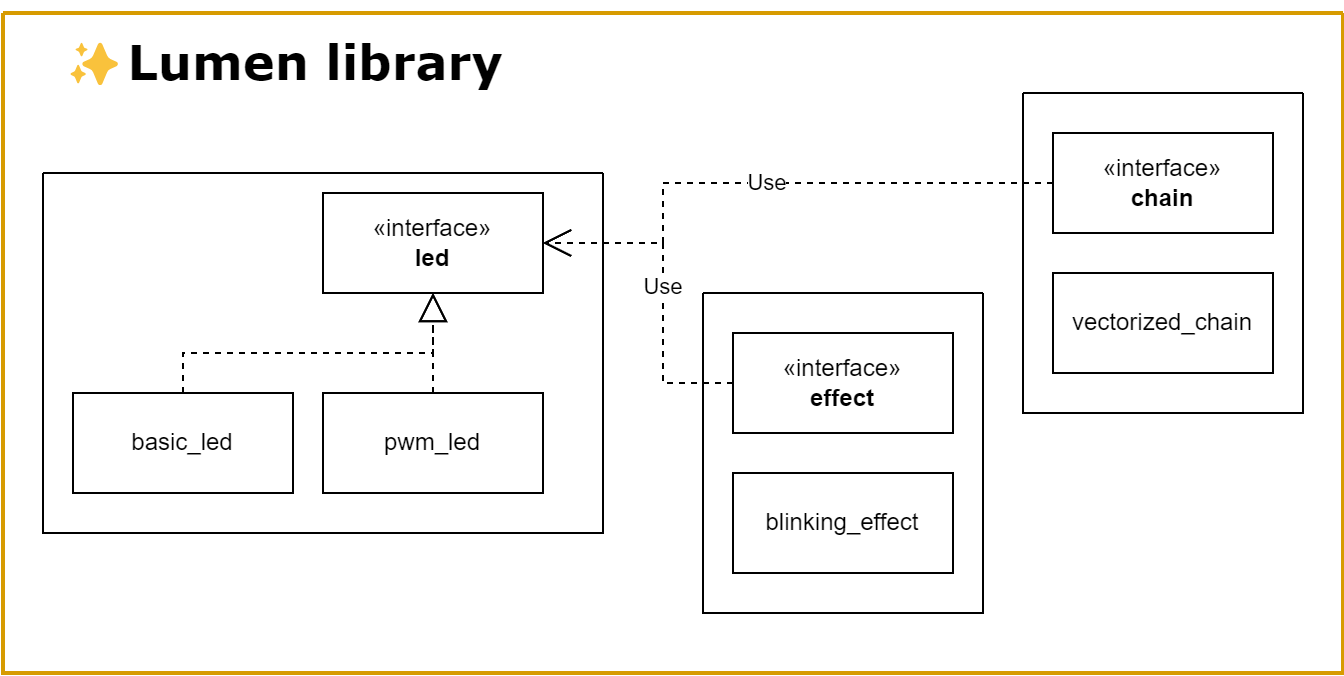
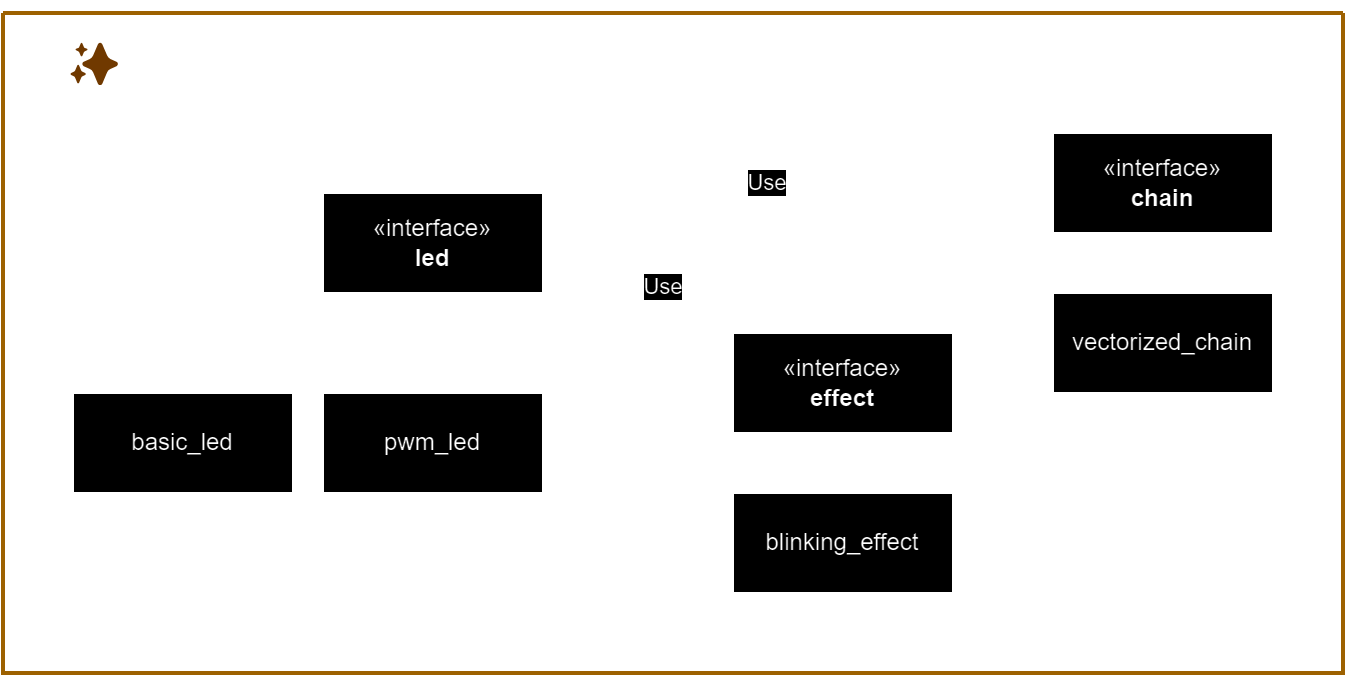
changed arch overview

diff --git a/README.md b/README.md
@@ -103,4 +103,4 @@ void loop() {
 ```
 
 ## Architectural Overview
-![lumen-arch](/images/lumen-2.png)
+![lumen-arch](/images/lumen.png)
